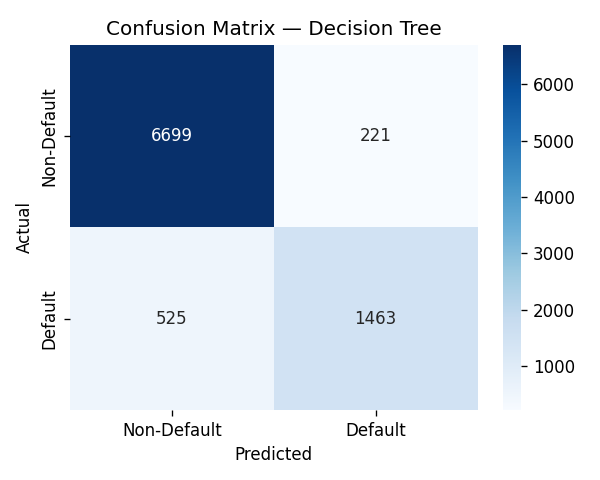
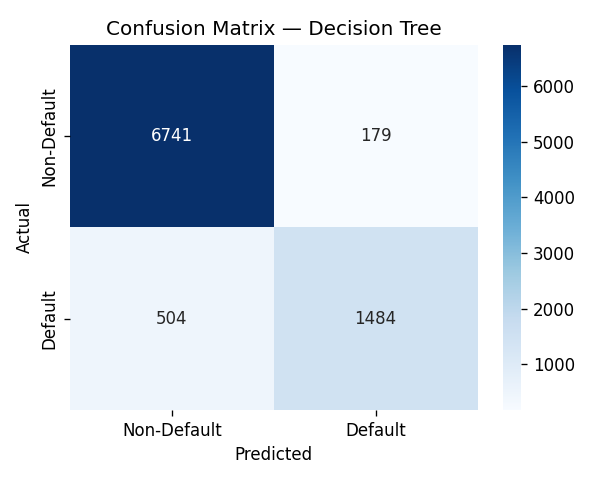
fix: resolve pd.get_dummies inference bug and tune Decision Tree for higher resolution probabilities

diff --git a/src/app.py b/src/app.py
@@ -69,12 +69,14 @@ def build_input_df(row_dict, feature_names):
     """Convert user inputs into a correctly ordered & encoded DataFrame."""
     df = pd.DataFrame([row_dict])
 
-    # One-hot encode (must match preprocessing exactly)
+    # One-hot encode without dropping first (reindex will handle the drops naturally)
     cat_cols = ["person_gender", "person_home_ownership", "loan_intent"]
-    df = pd.get_dummies(df, columns=cat_cols, drop_first=True)
+    df = pd.get_dummies(df, columns=cat_cols)
 
-    # Align to training feature order (fill missing dummies with 0)
+    # Align to training feature order (drops reference dummy & fills missing with 0)
     df = df.reindex(columns=feature_names, fill_value=0)
+    # Convert any boolean columns created by get_dummies to integers
+    df = df.astype(float)
     return df
 
 
@@ -271,8 +273,8 @@ with tab2:
 
             # Encode & scale
             cat_cols = ["person_gender", "person_home_ownership", "loan_intent"]
-            batch_enc = pd.get_dummies(batch_df, columns=cat_cols, drop_first=True)
-            batch_enc = batch_enc.reindex(columns=feature_names, fill_value=0)
+            batch_enc = pd.get_dummies(batch_df, columns=cat_cols)
+            batch_enc = batch_enc.reindex(columns=feature_names, fill_value=0).astype(float)
             batch_scaled = scaler.transform(batch_enc)
 
             model = MODELS[model_choice]

diff --git a/src/train_decision_tree.py b/src/train_decision_tree.py
@@ -37,8 +37,8 @@ def run():
 
     # Train model
     model = DecisionTreeClassifier(
-        max_depth=6,
-        min_samples_leaf=50,
+        max_depth=12,
+        min_samples_leaf=15,
         random_state=RANDOM_STATE,
     )
     model.fit(X_train, y_train)

diff --git a/README.md b/README.md
@@ -75,7 +75,7 @@ streamlit run src/app.py
 | Model | Role | Key Parameters | Accuracy | ROC-AUC |
 |---|---|---|---|---|
 | **Logistic Regression** | Primary | `max_iter=1000` | **89.7%** | **0.953** |
-| **Decision Tree** | Secondary | `max_depth=6`, `min_samples_leaf=50` | **91.6%** | **0.960** |
+| **Decision Tree** | Secondary | `max_depth=12`, `min_samples_leaf=15` | **92.3%** | **0.966** |
 
 Both models are evaluated on **Accuracy**, **ROC-AUC**, **Classification Report**, and **Confusion Matrix**.
 
